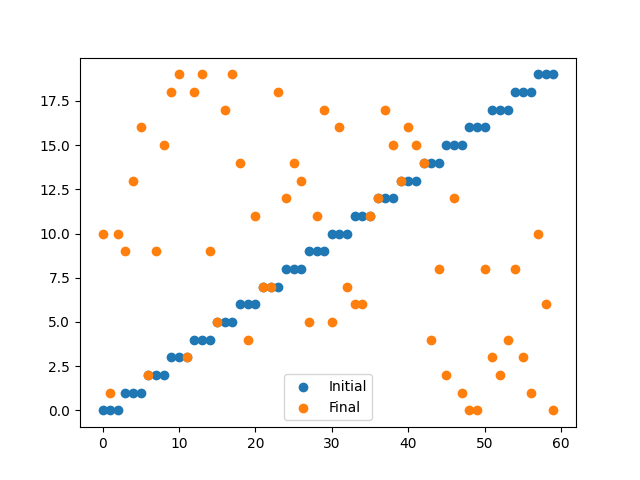
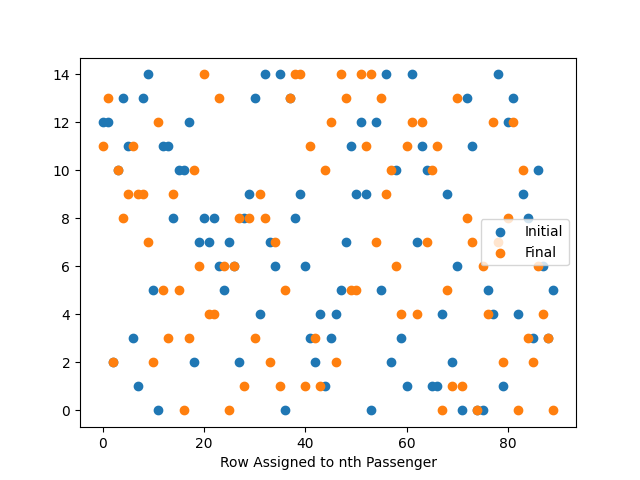
fixed bug with columns, graphing the column orderings of passengers

diff --git a/genetic.py b/genetic.py
@@ -33,7 +33,7 @@ def genetic(generations, rows, cols, population_size, num_to_replace, num_to_mut
 
     # builds a master list of passengers - this should NOT be mutated after creation :)
     for row in range(rows):
-        for col in range(cols):
+        for col in range(cols * 2):
             passenger_master_list.append(Person(random.uniform(0, 0.35), (row, col)))
 
     population = []
@@ -103,10 +103,13 @@ def genetic(generations, rows, cols, population_size, num_to_replace, num_to_mut
     return (initial_min_score_citizen, final_min_score_citizen)
 
 # GENETIC FUNC ARGS: generations, rows, cols, pop_size, num to replace, num to mutate, num iterations
-initial, final = genetic(20, 20, 3, 50, 5, 10)
+initial, final = genetic(250, 15, 3, 100, 8, 20)
 
 plt.clf()
 x = range(len(initial.specific_ordering))
+
+plt.xlabel("Nth Passenger in Seating Order")
+plt.xlabel("Row Assigned to nth Passenger")
 initial_row_data = []
 final_row_data = []
 
@@ -129,9 +132,22 @@ for i in range(len(initial.specific_ordering)):
     initial_delay_data.append(initial.specific_ordering[i].delay_prob)
     final_delay_data.append(final.specific_ordering[i].delay_prob)
 
-plt.clf()
 plt.scatter(x, initial_delay_data, label="Initial")
 plt.scatter(x, final_delay_data, label="Final")
 plt.legend()
 plt.savefig("DelayGraph.png")
 
+plt.clf()
+plt.xlabel("Nth Passenger in Seating Order")
+plt.ylabel("Column Assigned to nth Passenger")
+initial_delay_data = []
+final_delay_data = []
+
+for i in range(len(initial.specific_ordering)):
+    initial_delay_data.append(initial.specific_ordering[i].seat_assignment[1])
+    final_delay_data.append(final.specific_ordering[i].seat_assignment[1])
+
+plt.scatter(x, initial_delay_data, label="Initial")
+plt.scatter(x, final_delay_data, label="Final")
+plt.legend()
+plt.savefig("ColumnGraph.png")

diff --git a/citizen.py b/citizen.py
@@ -20,7 +20,7 @@ class Citizen():
         self.num_cols = num_cols
 
         self.specific_ordering = deepcopy(passenger_set)
-        # random.shuffle(self.specific_ordering)
+        random.shuffle(self.specific_ordering)
         
         self.update_ordering(self.specific_ordering)
 
